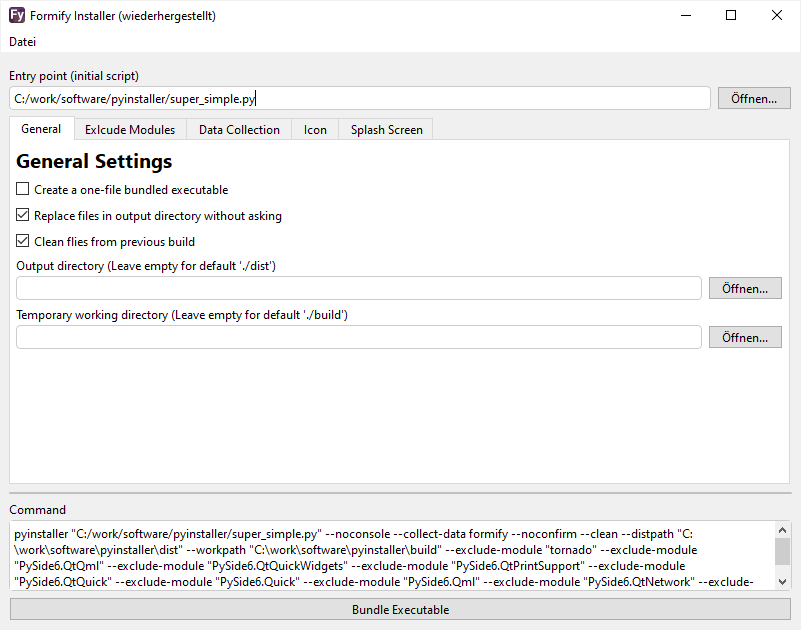
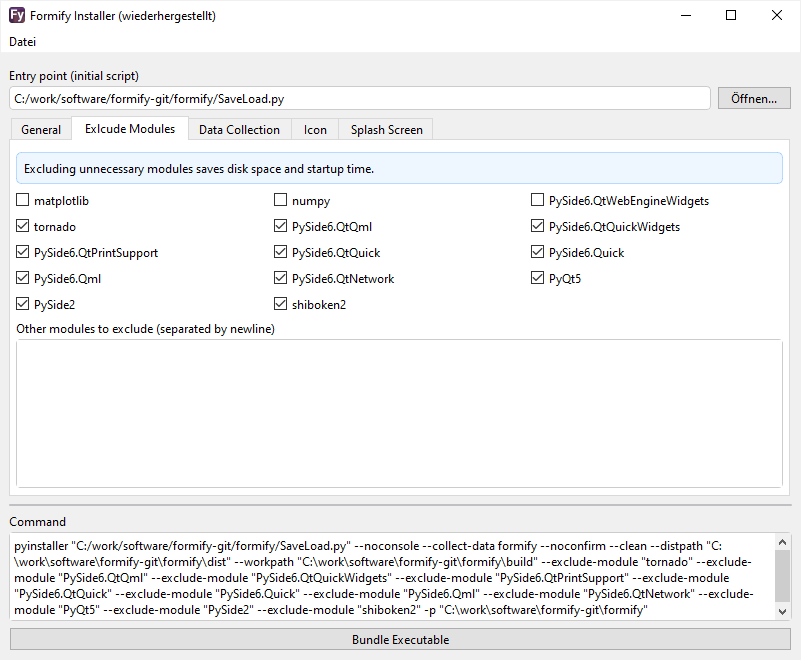
minor readme and install ui tweaks

diff --git a/formify/install_ui.py b/formify/install_ui.py
@@ -40,7 +40,7 @@ def _file_and_image_ui(name, valriable_prefix, more_ui=None):
 	check_enabled.change.subscribe(update_image)
 
 	return Col(
-		h2(name),
+		header(name),
 		check_enabled,
 		more_ui,
 		control_file,
@@ -53,6 +53,11 @@ def _file_and_image_ui(name, valriable_prefix, more_ui=None):
 			margin=0,
 		)
 	)
+
+
+def header(txt):
+	return None
+	return h5(txt)
 
 
 def main():
@@ -83,7 +88,7 @@ def main():
 	]
 
 	ui_excludes = Form(Col(
-		h2("Exclude Modules"),
+		header("Exclude Modules"),
 		SegmentBlue(text("Excluding unnecessary modules saves disk space and startup time.")),
 		Grid(
 			*[ControlCheckbox(variable_name=name, value=False) for name in excludes],
@@ -93,7 +98,7 @@ def main():
 	), variable_name="excludes")
 
 	ui_includes = Col(
-		h2("Data Collection"),
+		header("Data Collection"),
 		ControlTable(
 			label="Add data (file or directory paths)",
 			columns=["Source", "Destination"],
@@ -112,7 +117,7 @@ def main():
 	onefile.change.subscribe(lambda: onefile_warning.setVisible(onefile.value))
 
 	ui_general = Col(
-		h2("General Settings"),
+		header("General Settings"),
 		onefile,
 		onefile_warning,
 		ControlCheckbox("Replace files in output directory without asking", variable_name="noconfirm", value=True),

diff --git a/README.md b/README.md
@@ -35,7 +35,7 @@ MainWindow(ui, title="First App", margin=8)
 
 ### A more complex Example
 
-Including a menu, basic grid layout
+...including a menu and basic grid layout:
 
 ```python
 from formify import *
